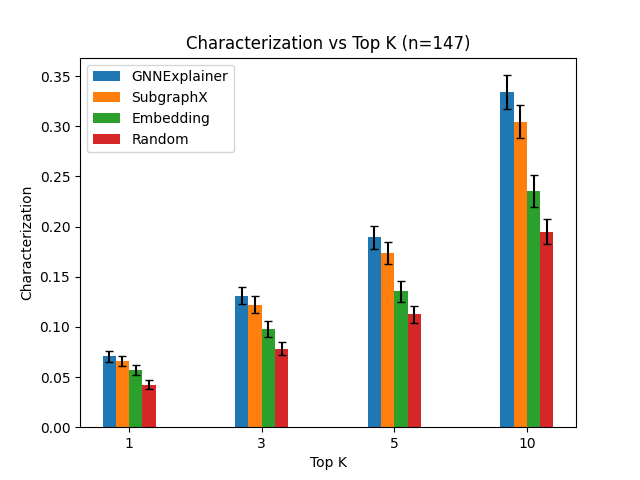
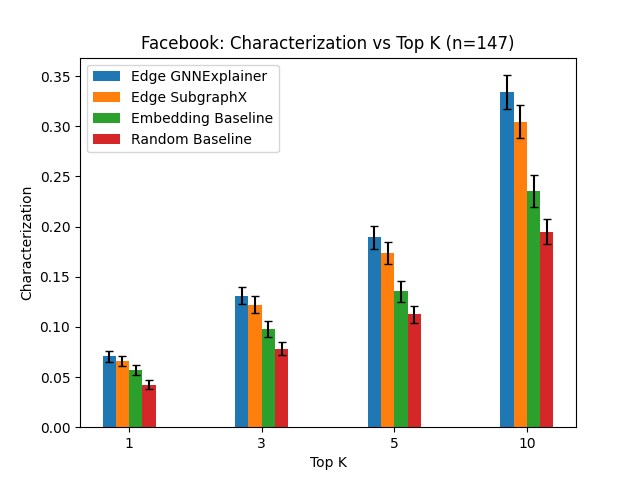
Poster results

Changed region(s): [[0.1875, 0.0625, 0.8125, 0.3125], [0.1875, 0.2812, 0.2188, 0.3125]]

diff --git a/src/eval/visualize.py b/src/eval/visualize.py
@@ -35,7 +35,9 @@ def process_data(filtered_data, sampler_names):
     return processed_data
 
 
-def plot_continuous_sparsity(processed_data, sampler_names):
+def plot_continuous_sparsity(
+    dataset_name, processed_data, sampler_names, sampler_display_names
+):
     count = len(processed_data)
     x_samples = 1000
     merged_necessary_results = defaultdict(lambda: [0 for _ in range(x_samples)])
@@ -59,20 +61,24 @@ def plot_continuous_sparsity(processed_data, sampler_names):
         ["(1 - Fidelity-)", "Fidelity+", "Characterization"],
     ):
         fig, ax = plt.subplots()
-        for sampler_name in sampler_names:
+        for sampler_name, sampler_display_name in zip(
+            sampler_names, sampler_display_names
+        ):
             ax.plot(
                 [x / x_samples for x in range(cutoff)],
                 [x / count for x in result[sampler_name][:cutoff]],
-                label=sampler_name,
+                label=sampler_display_name,
             )
         ax.set_xlabel("Sparsity")
         ax.set_ylabel(result_label)
-        ax.set_title(f"{result_label} vs Sparsity (n={count})")
+        ax.set_title(f"{dataset_name}: {result_label} vs Sparsity (n={count})")
         ax.legend()
         plt.show()
 
 
-def plot_topk_sparsity(processed_data, sampler_names, k_arr):
+def plot_topk_sparsity(
+    dataset_name, processed_data, sampler_names, sampler_display_names, k_arr
+):
     count = len(processed_data)
     necessary_results = defaultdict(lambda: [[] for _ in k_arr])
     sufficient_results = defaultdict(lambda: [[] for _ in k_arr])
@@ -99,12 +105,14 @@ def plot_topk_sparsity(processed_data, sampler_names, k_arr):
         labels = [f"{k}" for k in k_arr]
         x = range(len(labels))
         width = 0.1
-        for i, sampler_name in enumerate(sampler_names):
+        for i, (sampler_name, sampler_display_name) in enumerate(
+            zip(sampler_names, sampler_display_names)
+        ):
             ax.bar(
                 [a + i * width for a in x],
                 [np.mean(result[sampler_name][i]) for i in range(len(k_arr))],
                 width=width,
-                label=sampler_name,
+                label=sampler_display_name,
             )
             # add error bar
             ax.errorbar(
@@ -123,7 +131,7 @@ def plot_topk_sparsity(processed_data, sampler_names, k_arr):
         ax.set_xticklabels(labels)
         ax.set_xlabel("Top K")
         ax.set_ylabel(result_label)
-        ax.set_title(f"{result_label} vs Top K (n={count})")
+        ax.set_title(f"{dataset_name}: {result_label} vs Top K (n={count})")
         ax.legend()
         plt.show()
 
@@ -146,6 +154,25 @@ if __name__ == "__main__":
         "Random",
     ]
 
+    sampler_display_names = [
+        "Edge GNNExplainer",
+        "Edge SubgraphX",
+        "Embedding Baseline",
+        "Random Baseline",
+    ]
+
+    dataset_name = {
+        "facebook": "Facebook",
+        "imdb": "IMDB",
+    }[dataset]
     processed_data = process_data(all_data, sampler_names)
-    plot_continuous_sparsity(processed_data, sampler_names)
-    plot_topk_sparsity(processed_data, sampler_names, [1, 3, 5, 10])
+    plot_continuous_sparsity(
+        dataset_name, processed_data, sampler_names, sampler_display_names
+    )
+    plot_topk_sparsity(
+        dataset_name,
+        processed_data,
+        sampler_names,
+        sampler_display_names,
+        [1, 3, 5, 10],
+    )

diff --git a/src/eval/pred_models.py b/src/eval/pred_models.py
@@ -4,6 +4,10 @@ from sklearn.metrics import accuracy_score, roc_auc_score
 from src.eval.utils import get_dataset_and_model
 
 
+def num_parameters(model):
+    return sum(p.numel() for p in model.parameters() if p.requires_grad)
+
+
 def evaluate_pred_model(data, model, key):
     data = test_data
     start, _, end = key
@@ -37,4 +41,5 @@ if __name__ == "__main__":
 
         print(dataset_name)
         evaluate_pred_model(test_data, model, key)
+        print("Number of parameters:", num_parameters(model))
         print()
